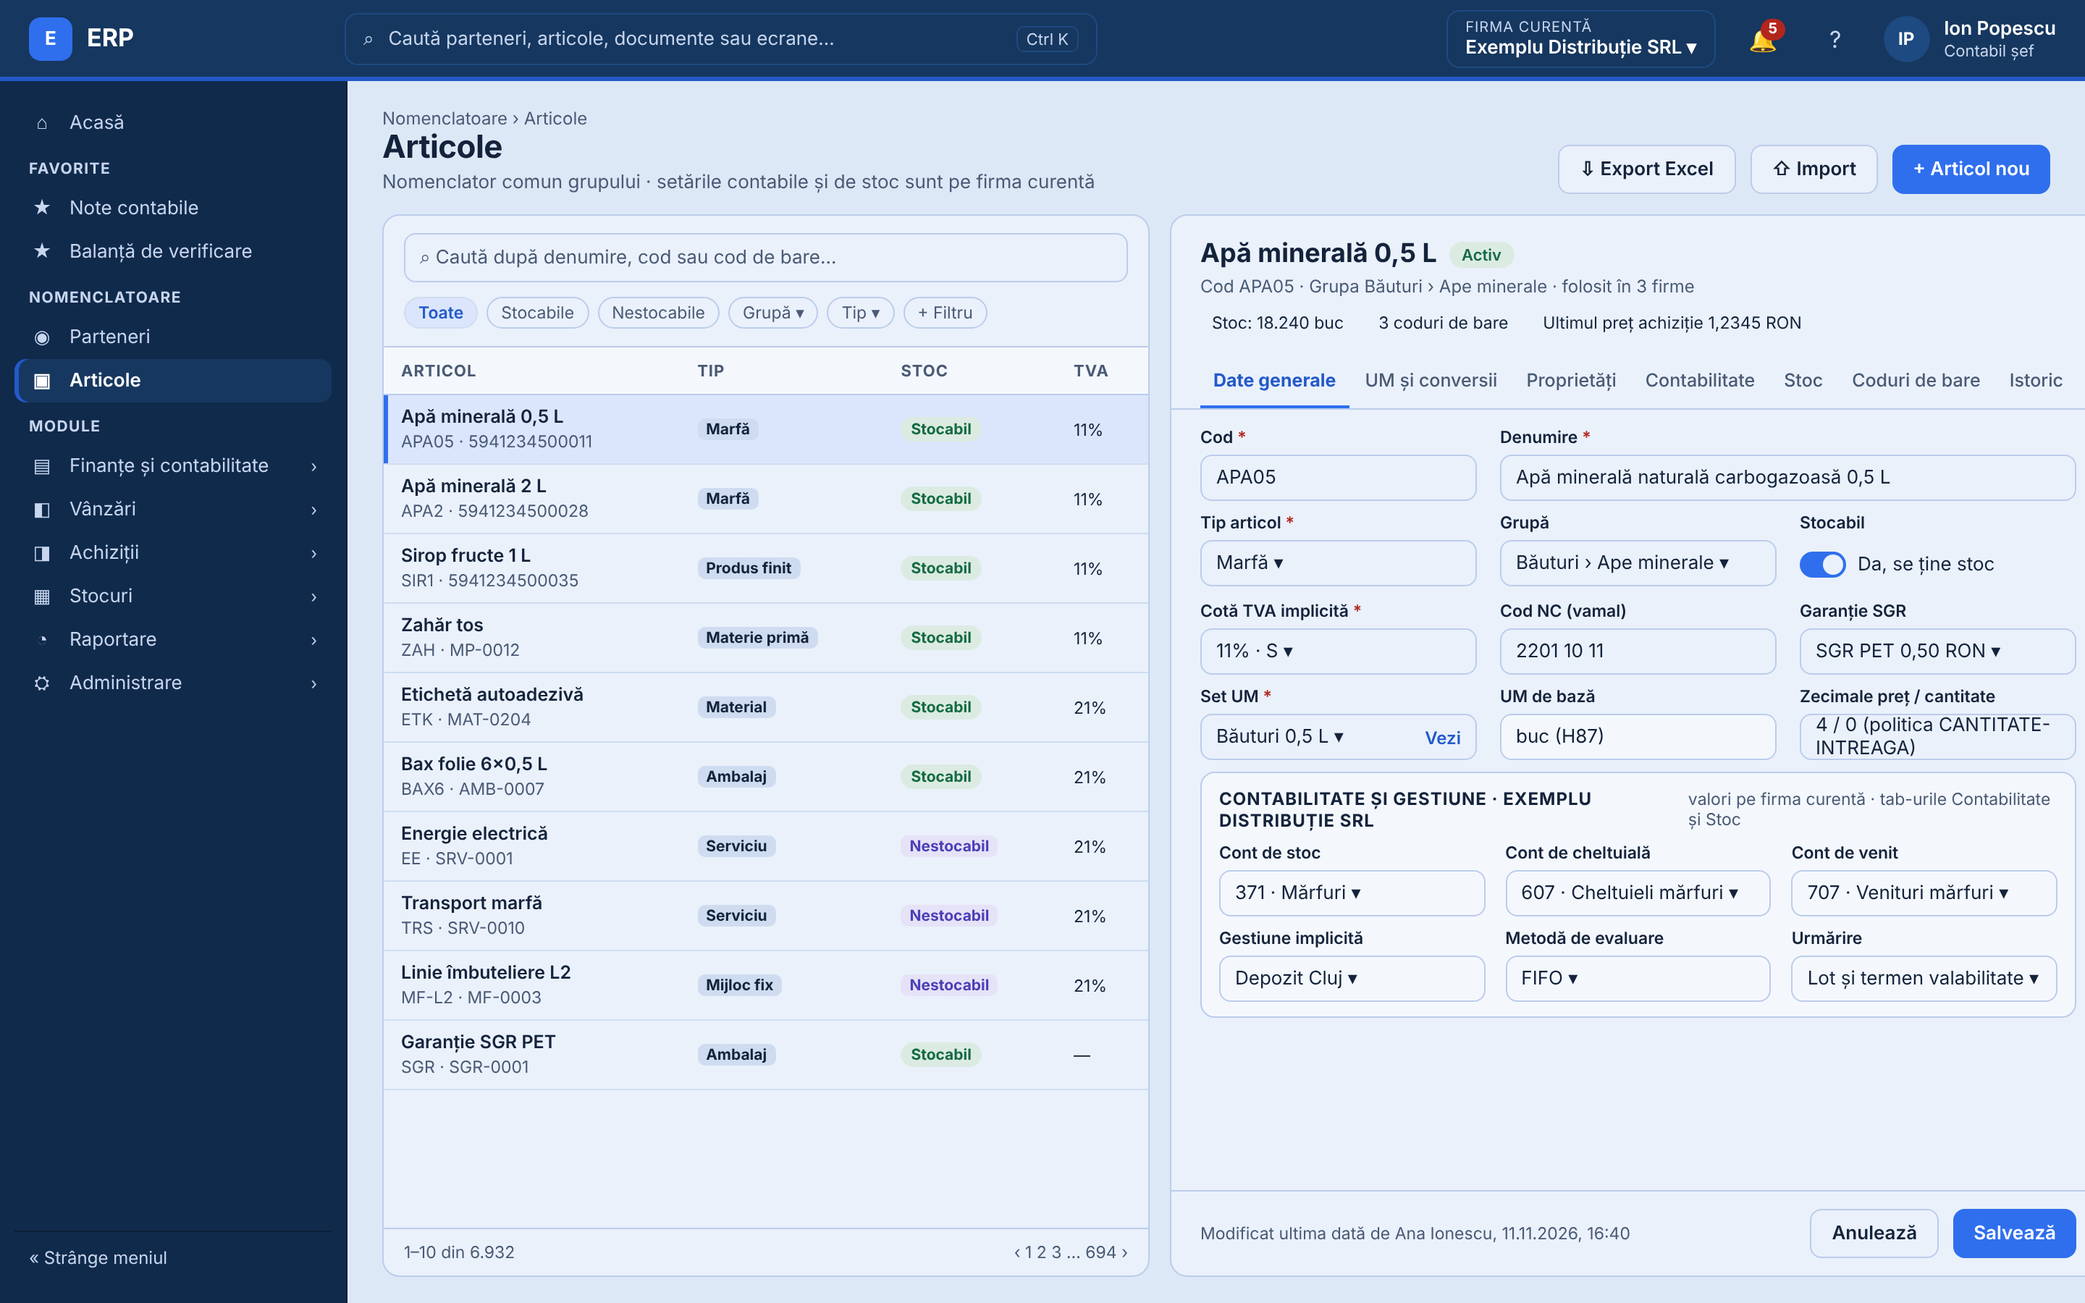
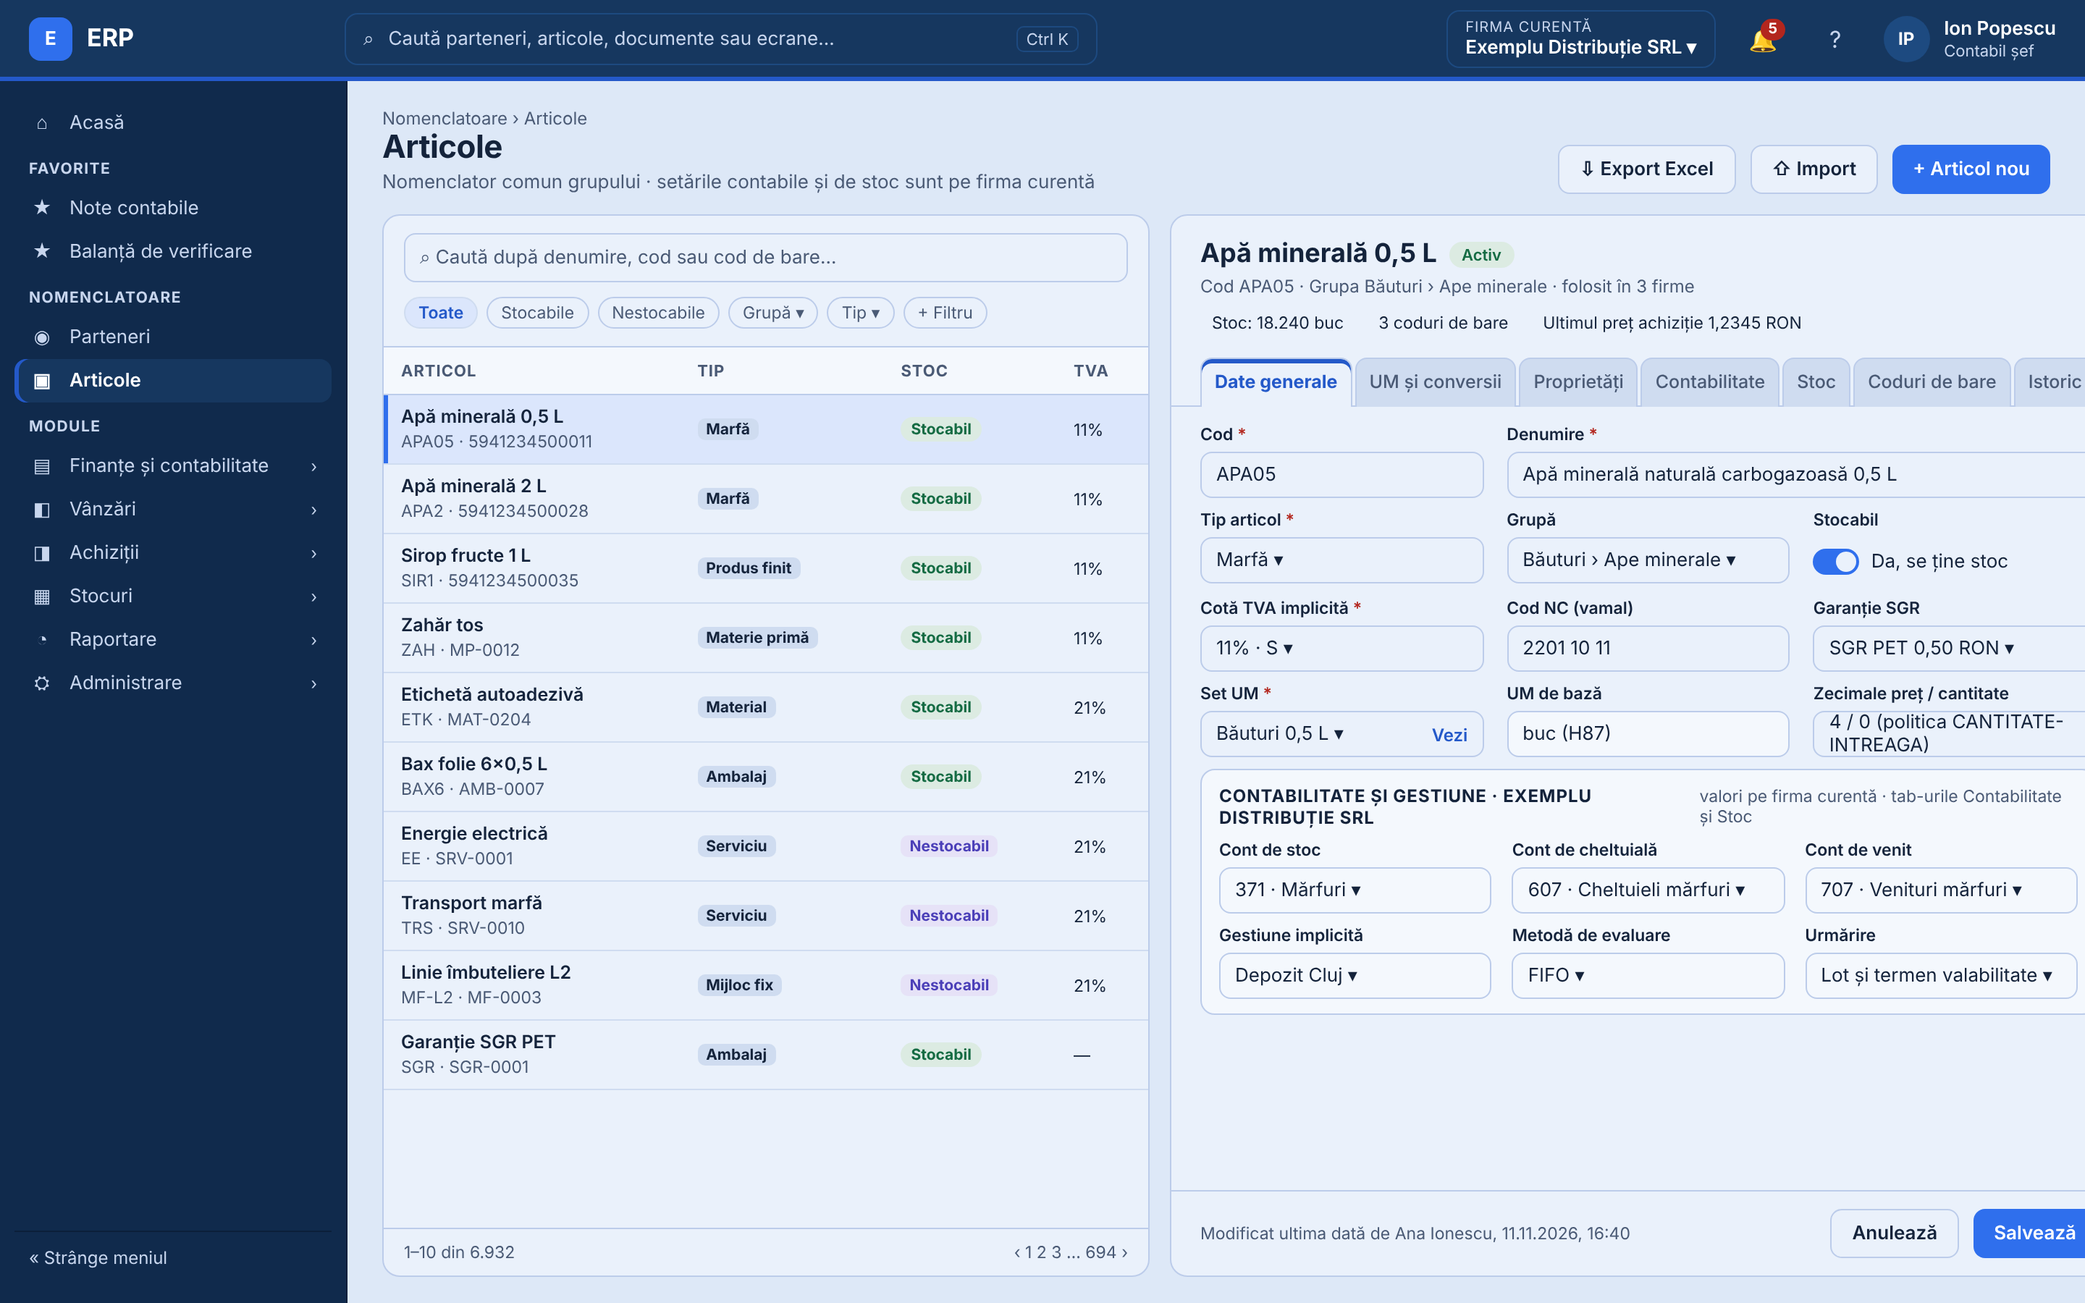
docs(ui): tema vizuala validata de Aurelian; banda de tab-uri aliniata la harta zonelor
Aurelian a validat pe 20.11.2026 machetele reculorate, documentul 10, decizia ST5 si regulile
UI-13...UI-17. Starile din index, din stack si din Nucleu trec de la "propus" la "validat".

Harta zonelor din 10 trecea tab-urile inactive pe --surface-muted, dar codul si machetele
pastrasera tab-urile cu subliniere si fundal transparent. Alese sa se alinieze codul (decizia
lui Aurelian): banda de tab-uri a unei fise are inactivele pe o treapta mai inchisa, iar activul
pe suprafata fisei, cu care se uneste, cu accentul modulului deasupra. Numai in ".tabs";
".config-tabs" ramane un rand de legaturi, nu o banda de tab-uri. Aceeasi schimbare in cele 23
de machete cu tab-uri, cu PNG-urile regenerate.

Fereastra installer-ului ramane pe fundal alb, tot decizia lui Aurelian din 20.11.2026: T-02
priveste interfata ERP, nu aplicatia WPF de instalare. Exceptia e scrisa si la UI-14, si in 10
sectiunea 9, ca sa nu fie "reparata" din greseala mai tarziu.

Verificari: npm lint, typecheck, build si 29 de teste Vitest; PNG-urile regenerate cu
build/machete-png.mjs.

Claude-Session: https://claude.ai/code/session_01S35PNDpf69BRR1oZDwNkqD

Changed region(s): [[0.5625, 0.2489, 1.0, 0.7778], [0.875, 0.9333, 1.0, 0.9644]]

diff --git a/Docs/arhitectura/02-module-principale/01-nucleu/ecrane/03-firme.html b/Docs/arhitectura/02-module-principale/01-nucleu/ecrane/03-firme.html
@@ -100,8 +100,9 @@
   .stats { display: flex; gap: 8px; margin-top: 8px; }
   .stat { font-size: 11.5px; background: var(--surface-card); border-radius: 6px; padding: 3px 8px; color: var(--ink); }
   .tabs { display: flex; gap: 2px; padding: 0 20px; border-bottom: 1px solid var(--line); margin-top: 14px; }
-  .tab { padding: 9px 12px; font-size: 13px; color: var(--muted); font-weight: 500; }
-  .tab.on { color: var(--blue-600); font-weight: 700; border-bottom: 2px solid var(--blue-500); }
+  .tab { padding: 9px 12px 10px; font-size: 13px; color: var(--muted); font-weight: 500; background: var(--surface-muted);
+         border: 1px solid var(--line); border-bottom: 0; border-radius: 8px 8px 0 0; margin-bottom: -1px; }
+  .tab.on { color: var(--action-hover); font-weight: 700; background: var(--surface-card); box-shadow: inset 0 3px 0 var(--accent-core); }
   .form { padding: 16px 20px; display: grid; grid-template-columns: 1fr 1fr 1fr; gap: 12px 16px; }
   .f label { display: block; font-size: 11.5px; font-weight: 600; color: var(--ink); margin-bottom: 5px; }
   .f .in { height: 34px; border: 1px solid var(--line); border-radius: 8px; display: flex; align-items: center; padding: 0 10px; font-size: 13px; gap: 8px; }

diff --git a/Docs/arhitectura/02-module-principale/01-nucleu/ecrane/04-parteneri.html b/Docs/arhitectura/02-module-principale/01-nucleu/ecrane/04-parteneri.html
@@ -75,8 +75,9 @@
   .stats { display: flex; gap: 8px; margin-top: 8px; }
   .stat { font-size: 11.5px; background: var(--surface-card); border-radius: 6px; padding: 3px 8px; color: var(--ink); }
   .tabs { display: flex; gap: 2px; padding: 0 20px; border-bottom: 1px solid var(--line); margin-top: 14px; }
-  .tab { padding: 9px 12px; font-size: 13px; color: var(--muted); font-weight: 500; }
-  .tab.on { color: var(--blue-600); font-weight: 700; border-bottom: 2px solid var(--blue-500); }
+  .tab { padding: 9px 12px 10px; font-size: 13px; color: var(--muted); font-weight: 500; background: var(--surface-muted);
+         border: 1px solid var(--line); border-bottom: 0; border-radius: 8px 8px 0 0; margin-bottom: -1px; }
+  .tab.on { color: var(--action-hover); font-weight: 700; background: var(--surface-card); box-shadow: inset 0 3px 0 var(--accent-core); }
   .form { padding: 16px 20px; display: grid; grid-template-columns: 1fr 1fr 1fr; gap: 12px 16px; }
   .f label { display: block; font-size: 11.5px; font-weight: 600; color: var(--ink); margin-bottom: 5px; }
   .f .in { height: 34px; border: 1px solid var(--line); border-radius: 8px; display: flex; align-items: center; padding: 0 10px; font-size: 13px; gap: 8px; }

diff --git a/Docs/arhitectura/02-module-principale/01-nucleu/ecrane/04b-parteneri-proprietati.html b/Docs/arhitectura/02-module-principale/01-nucleu/ecrane/04b-parteneri-proprietati.html
@@ -75,8 +75,9 @@
   .stats { display: flex; gap: 8px; margin-top: 8px; }
   .stat { font-size: 11.5px; background: var(--surface-card); border-radius: 6px; padding: 3px 8px; color: var(--ink); }
   .tabs { display: flex; gap: 2px; padding: 0 20px; border-bottom: 1px solid var(--line); margin-top: 14px; }
-  .tab { padding: 9px 12px; font-size: 13px; color: var(--muted); font-weight: 500; }
-  .tab.on { color: var(--blue-600); font-weight: 700; border-bottom: 2px solid var(--blue-500); }
+  .tab { padding: 9px 12px 10px; font-size: 13px; color: var(--muted); font-weight: 500; background: var(--surface-muted);
+         border: 1px solid var(--line); border-bottom: 0; border-radius: 8px 8px 0 0; margin-bottom: -1px; }
+  .tab.on { color: var(--action-hover); font-weight: 700; background: var(--surface-card); box-shadow: inset 0 3px 0 var(--accent-core); }
   .form { padding: 16px 20px; display: grid; grid-template-columns: 1fr 1fr 1fr; gap: 12px 16px; }
   .f label { display: block; font-size: 11.5px; font-weight: 600; color: var(--ink); margin-bottom: 5px; }
   .f .in { height: 34px; border: 1px solid var(--line); border-radius: 8px; display: flex; align-items: center; padding: 0 10px; font-size: 13px; gap: 8px; }

diff --git a/Docs/arhitectura/02-module-principale/01-nucleu/ecrane/05-articole.html b/Docs/arhitectura/02-module-principale/01-nucleu/ecrane/05-articole.html
@@ -75,8 +75,9 @@
   .stats { display: flex; gap: 8px; margin-top: 8px; }
   .stat { font-size: 11.5px; background: var(--surface-card); border-radius: 6px; padding: 3px 8px; color: var(--ink); }
   .tabs { display: flex; gap: 2px; padding: 0 20px; border-bottom: 1px solid var(--line); margin-top: 14px; }
-  .tab { padding: 9px 12px; font-size: 13px; color: var(--muted); font-weight: 500; }
-  .tab.on { color: var(--blue-600); font-weight: 700; border-bottom: 2px solid var(--blue-500); }
+  .tab { padding: 9px 12px 10px; font-size: 13px; color: var(--muted); font-weight: 500; background: var(--surface-muted);
+         border: 1px solid var(--line); border-bottom: 0; border-radius: 8px 8px 0 0; margin-bottom: -1px; }
+  .tab.on { color: var(--action-hover); font-weight: 700; background: var(--surface-card); box-shadow: inset 0 3px 0 var(--accent-core); }
   .form { padding: 16px 20px; display: grid; grid-template-columns: 1fr 1fr 1fr; gap: 12px 16px; }
   .f label { display: block; font-size: 11.5px; font-weight: 600; color: var(--ink); margin-bottom: 5px; }
   .f .in { height: 34px; border: 1px solid var(--line); border-radius: 8px; display: flex; align-items: center; padding: 0 10px; font-size: 13px; gap: 8px; }

diff --git a/Docs/arhitectura/02-module-principale/01-nucleu/ecrane/05b-articole-um.html b/Docs/arhitectura/02-module-principale/01-nucleu/ecrane/05b-articole-um.html
@@ -75,8 +75,9 @@
   .stats { display: flex; gap: 8px; margin-top: 8px; }
   .stat { font-size: 11.5px; background: var(--surface-card); border-radius: 6px; padding: 3px 8px; color: var(--ink); }
   .tabs { display: flex; gap: 2px; padding: 0 20px; border-bottom: 1px solid var(--line); margin-top: 14px; }
-  .tab { padding: 9px 12px; font-size: 13px; color: var(--muted); font-weight: 500; }
-  .tab.on { color: var(--blue-600); font-weight: 700; border-bottom: 2px solid var(--blue-500); }
+  .tab { padding: 9px 12px 10px; font-size: 13px; color: var(--muted); font-weight: 500; background: var(--surface-muted);
+         border: 1px solid var(--line); border-bottom: 0; border-radius: 8px 8px 0 0; margin-bottom: -1px; }
+  .tab.on { color: var(--action-hover); font-weight: 700; background: var(--surface-card); box-shadow: inset 0 3px 0 var(--accent-core); }
   .form { padding: 16px 20px; display: grid; grid-template-columns: 1fr 1fr 1fr; gap: 12px 16px; }
   .f label { display: block; font-size: 11.5px; font-weight: 600; color: var(--ink); margin-bottom: 5px; }
   .f .in { height: 34px; border: 1px solid var(--line); border-radius: 8px; display: flex; align-items: center; padding: 0 10px; font-size: 13px; gap: 8px; }

diff --git a/Docs/arhitectura/02-module-principale/01-nucleu/ecrane/06-utilizatori.html b/Docs/arhitectura/02-module-principale/01-nucleu/ecrane/06-utilizatori.html
@@ -75,8 +75,9 @@
   .stats { display: flex; gap: 8px; margin-top: 8px; }
   .stat { font-size: 11.5px; background: var(--surface-card); border-radius: 6px; padding: 3px 8px; color: var(--ink); }
   .tabs { display: flex; gap: 2px; padding: 0 20px; border-bottom: 1px solid var(--line); margin-top: 14px; }
-  .tab { padding: 9px 12px; font-size: 13px; color: var(--muted); font-weight: 500; }
-  .tab.on { color: var(--blue-600); font-weight: 700; border-bottom: 2px solid var(--blue-500); }
+  .tab { padding: 9px 12px 10px; font-size: 13px; color: var(--muted); font-weight: 500; background: var(--surface-muted);
+         border: 1px solid var(--line); border-bottom: 0; border-radius: 8px 8px 0 0; margin-bottom: -1px; }
+  .tab.on { color: var(--action-hover); font-weight: 700; background: var(--surface-card); box-shadow: inset 0 3px 0 var(--accent-core); }
   .form { padding: 16px 20px; display: grid; grid-template-columns: 1fr 1fr 1fr; gap: 12px 16px; }
   .f label { display: block; font-size: 11.5px; font-weight: 600; color: var(--ink); margin-bottom: 5px; }
   .f .in { height: 34px; border: 1px solid var(--line); border-radius: 8px; display: flex; align-items: center; padding: 0 10px; font-size: 13px; gap: 8px; }

diff --git a/Docs/arhitectura/02-module-principale/01-nucleu/ecrane/06b-utilizator-angajat.html b/Docs/arhitectura/02-module-principale/01-nucleu/ecrane/06b-utilizator-angajat.html
@@ -75,8 +75,9 @@
   .stats { display: flex; gap: 8px; margin-top: 8px; }
   .stat { font-size: 11.5px; background: var(--surface-card); border-radius: 6px; padding: 3px 8px; color: var(--ink); }
   .tabs { display: flex; gap: 2px; padding: 0 20px; border-bottom: 1px solid var(--line); margin-top: 14px; }
-  .tab { padding: 9px 12px; font-size: 13px; color: var(--muted); font-weight: 500; }
-  .tab.on { color: var(--blue-600); font-weight: 700; border-bottom: 2px solid var(--blue-500); }
+  .tab { padding: 9px 12px 10px; font-size: 13px; color: var(--muted); font-weight: 500; background: var(--surface-muted);
+         border: 1px solid var(--line); border-bottom: 0; border-radius: 8px 8px 0 0; margin-bottom: -1px; }
+  .tab.on { color: var(--action-hover); font-weight: 700; background: var(--surface-card); box-shadow: inset 0 3px 0 var(--accent-core); }
   .form { padding: 16px 20px; display: grid; grid-template-columns: 1fr 1fr 1fr; gap: 12px 16px; }
   .f label { display: block; font-size: 11.5px; font-weight: 600; color: var(--ink); margin-bottom: 5px; }
   .f .in { height: 34px; border: 1px solid var(--line); border-radius: 8px; display: flex; align-items: center; padding: 0 10px; font-size: 13px; gap: 8px; }

diff --git a/Docs/arhitectura/02-module-principale/01-nucleu/ecrane/06c-utilizator-extern.html b/Docs/arhitectura/02-module-principale/01-nucleu/ecrane/06c-utilizator-extern.html
@@ -75,8 +75,9 @@
   .stats { display: flex; gap: 8px; margin-top: 8px; }
   .stat { font-size: 11.5px; background: var(--surface-card); border-radius: 6px; padding: 3px 8px; color: var(--ink); }
   .tabs { display: flex; gap: 2px; padding: 0 20px; border-bottom: 1px solid var(--line); margin-top: 14px; }
-  .tab { padding: 9px 12px; font-size: 13px; color: var(--muted); font-weight: 500; }
-  .tab.on { color: var(--blue-600); font-weight: 700; border-bottom: 2px solid var(--blue-500); }
+  .tab { padding: 9px 12px 10px; font-size: 13px; color: var(--muted); font-weight: 500; background: var(--surface-muted);
+         border: 1px solid var(--line); border-bottom: 0; border-radius: 8px 8px 0 0; margin-bottom: -1px; }
+  .tab.on { color: var(--action-hover); font-weight: 700; background: var(--surface-card); box-shadow: inset 0 3px 0 var(--accent-core); }
   .form { padding: 16px 20px; display: grid; grid-template-columns: 1fr 1fr 1fr; gap: 12px 16px; }
   .f label { display: block; font-size: 11.5px; font-weight: 600; color: var(--ink); margin-bottom: 5px; }
   .f .in { height: 34px; border: 1px solid var(--line); border-radius: 8px; display: flex; align-items: center; padding: 0 10px; font-size: 13px; gap: 8px; }

diff --git a/Docs/arhitectura/02-module-principale/01-nucleu/ecrane/07-configurare-nomenclatoare.html b/Docs/arhitectura/02-module-principale/01-nucleu/ecrane/07-configurare-nomenclatoare.html
@@ -75,8 +75,9 @@
   .stats { display: flex; gap: 8px; margin-top: 8px; }
   .stat { font-size: 11.5px; background: var(--surface-card); border-radius: 6px; padding: 3px 8px; color: var(--ink); }
   .tabs { display: flex; gap: 2px; padding: 0 20px; border-bottom: 1px solid var(--line); margin-top: 14px; }
-  .tab { padding: 9px 12px; font-size: 13px; color: var(--muted); font-weight: 500; }
-  .tab.on { color: var(--blue-600); font-weight: 700; border-bottom: 2px solid var(--blue-500); }
+  .tab { padding: 9px 12px 10px; font-size: 13px; color: var(--muted); font-weight: 500; background: var(--surface-muted);
+         border: 1px solid var(--line); border-bottom: 0; border-radius: 8px 8px 0 0; margin-bottom: -1px; }
+  .tab.on { color: var(--action-hover); font-weight: 700; background: var(--surface-card); box-shadow: inset 0 3px 0 var(--accent-core); }
   .form { padding: 16px 20px; display: grid; grid-template-columns: 1fr 1fr 1fr; gap: 12px 16px; }
   .f label { display: block; font-size: 11.5px; font-weight: 600; color: var(--ink); margin-bottom: 5px; }
   .f .in { height: 34px; border: 1px solid var(--line); border-radius: 8px; display: flex; align-items: center; padding: 0 10px; font-size: 13px; gap: 8px; }

diff --git a/Docs/arhitectura/02-module-principale/01-nucleu/ecrane/07b-configurare-cursuri.html b/Docs/arhitectura/02-module-principale/01-nucleu/ecrane/07b-configurare-cursuri.html
@@ -75,8 +75,9 @@
   .stats { display: flex; gap: 8px; margin-top: 8px; }
   .stat { font-size: 11.5px; background: var(--surface-card); border-radius: 6px; padding: 3px 8px; color: var(--ink); }
   .tabs { display: flex; gap: 2px; padding: 0 20px; border-bottom: 1px solid var(--line); margin-top: 14px; }
-  .tab { padding: 9px 12px; font-size: 13px; color: var(--muted); font-weight: 500; }
-  .tab.on { color: var(--blue-600); font-weight: 700; border-bottom: 2px solid var(--blue-500); }
+  .tab { padding: 9px 12px 10px; font-size: 13px; color: var(--muted); font-weight: 500; background: var(--surface-muted);
+         border: 1px solid var(--line); border-bottom: 0; border-radius: 8px 8px 0 0; margin-bottom: -1px; }
+  .tab.on { color: var(--action-hover); font-weight: 700; background: var(--surface-card); box-shadow: inset 0 3px 0 var(--accent-core); }
   .form { padding: 16px 20px; display: grid; grid-template-columns: 1fr 1fr 1fr; gap: 12px 16px; }
   .f label { display: block; font-size: 11.5px; font-weight: 600; color: var(--ink); margin-bottom: 5px; }
   .f .in { height: 34px; border: 1px solid var(--line); border-radius: 8px; display: flex; align-items: center; padding: 0 10px; font-size: 13px; gap: 8px; }

diff --git a/Docs/arhitectura/02-module-principale/01-nucleu/ecrane/07c-configurare-serii.html b/Docs/arhitectura/02-module-principale/01-nucleu/ecrane/07c-configurare-serii.html
@@ -75,8 +75,9 @@
   .stats { display: flex; gap: 8px; margin-top: 8px; }
   .stat { font-size: 11.5px; background: var(--surface-card); border-radius: 6px; padding: 3px 8px; color: var(--ink); }
   .tabs { display: flex; gap: 2px; padding: 0 20px; border-bottom: 1px solid var(--line); margin-top: 14px; }
-  .tab { padding: 9px 12px; font-size: 13px; color: var(--muted); font-weight: 500; }
-  .tab.on { color: var(--blue-600); font-weight: 700; border-bottom: 2px solid var(--blue-500); }
+  .tab { padding: 9px 12px 10px; font-size: 13px; color: var(--muted); font-weight: 500; background: var(--surface-muted);
+         border: 1px solid var(--line); border-bottom: 0; border-radius: 8px 8px 0 0; margin-bottom: -1px; }
+  .tab.on { color: var(--action-hover); font-weight: 700; background: var(--surface-card); box-shadow: inset 0 3px 0 var(--accent-core); }
   .form { padding: 16px 20px; display: grid; grid-template-columns: 1fr 1fr 1fr; gap: 12px 16px; }
   .f label { display: block; font-size: 11.5px; font-weight: 600; color: var(--ink); margin-bottom: 5px; }
   .f .in { height: 34px; border: 1px solid var(--line); border-radius: 8px; display: flex; align-items: center; padding: 0 10px; font-size: 13px; gap: 8px; }

diff --git a/Docs/arhitectura/02-module-principale/01-nucleu/ecrane/07d-configurare-precizie.html b/Docs/arhitectura/02-module-principale/01-nucleu/ecrane/07d-configurare-precizie.html
@@ -75,8 +75,9 @@
   .stats { display: flex; gap: 8px; margin-top: 8px; }
   .stat { font-size: 11.5px; background: var(--surface-card); border-radius: 6px; padding: 3px 8px; color: var(--ink); }
   .tabs { display: flex; gap: 2px; padding: 0 20px; border-bottom: 1px solid var(--line); margin-top: 14px; }
-  .tab { padding: 9px 12px; font-size: 13px; color: var(--muted); font-weight: 500; }
-  .tab.on { color: var(--blue-600); font-weight: 700; border-bottom: 2px solid var(--blue-500); }
+  .tab { padding: 9px 12px 10px; font-size: 13px; color: var(--muted); font-weight: 500; background: var(--surface-muted);
+         border: 1px solid var(--line); border-bottom: 0; border-radius: 8px 8px 0 0; margin-bottom: -1px; }
+  .tab.on { color: var(--action-hover); font-weight: 700; background: var(--surface-card); box-shadow: inset 0 3px 0 var(--accent-core); }
   .form { padding: 16px 20px; display: grid; grid-template-columns: 1fr 1fr 1fr; gap: 12px 16px; }
   .f label { display: block; font-size: 11.5px; font-weight: 600; color: var(--ink); margin-bottom: 5px; }
   .f .in { height: 34px; border: 1px solid var(--line); border-radius: 8px; display: flex; align-items: center; padding: 0 10px; font-size: 13px; gap: 8px; }
